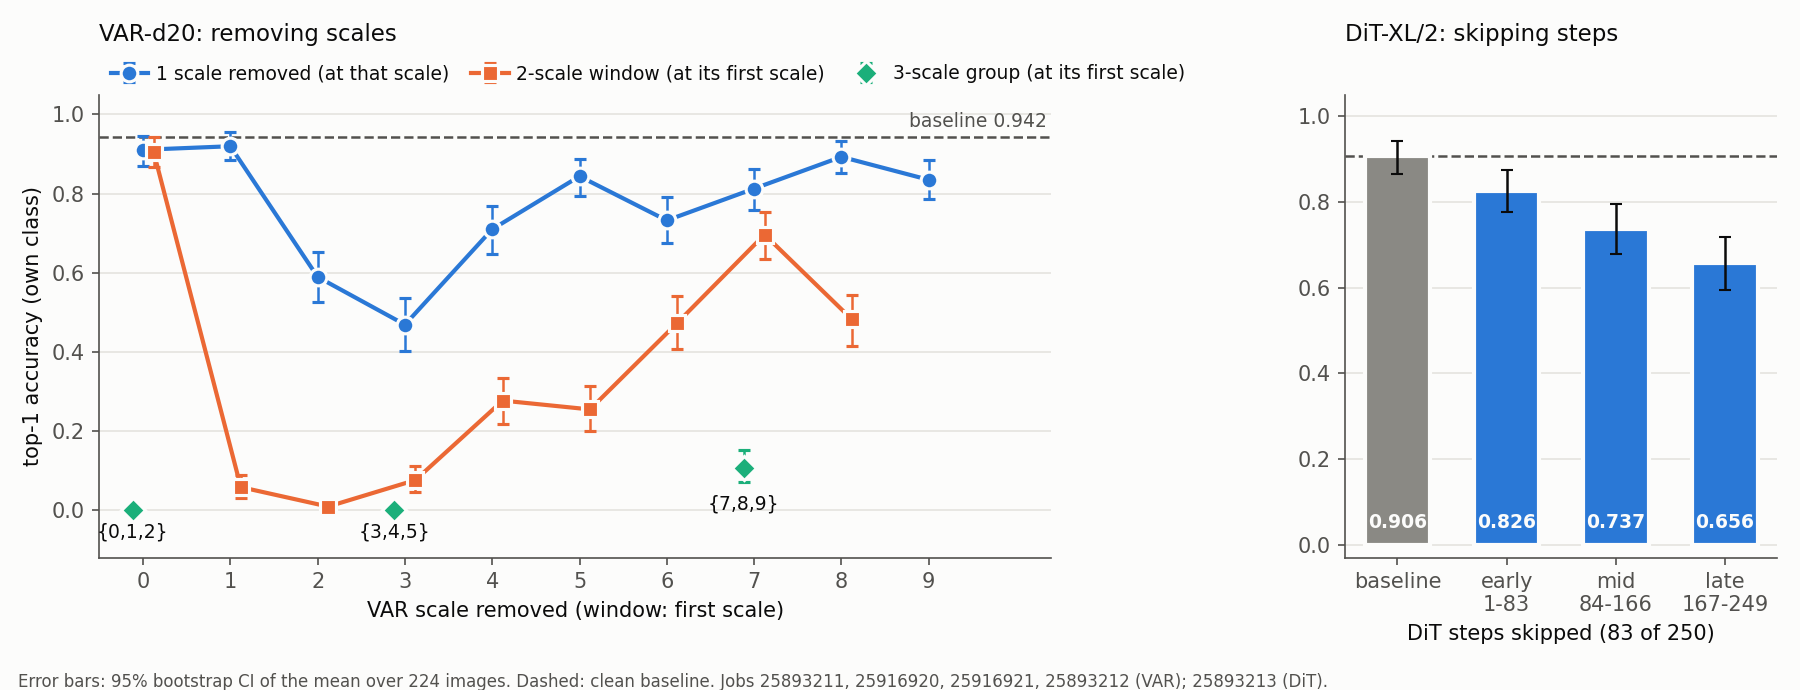
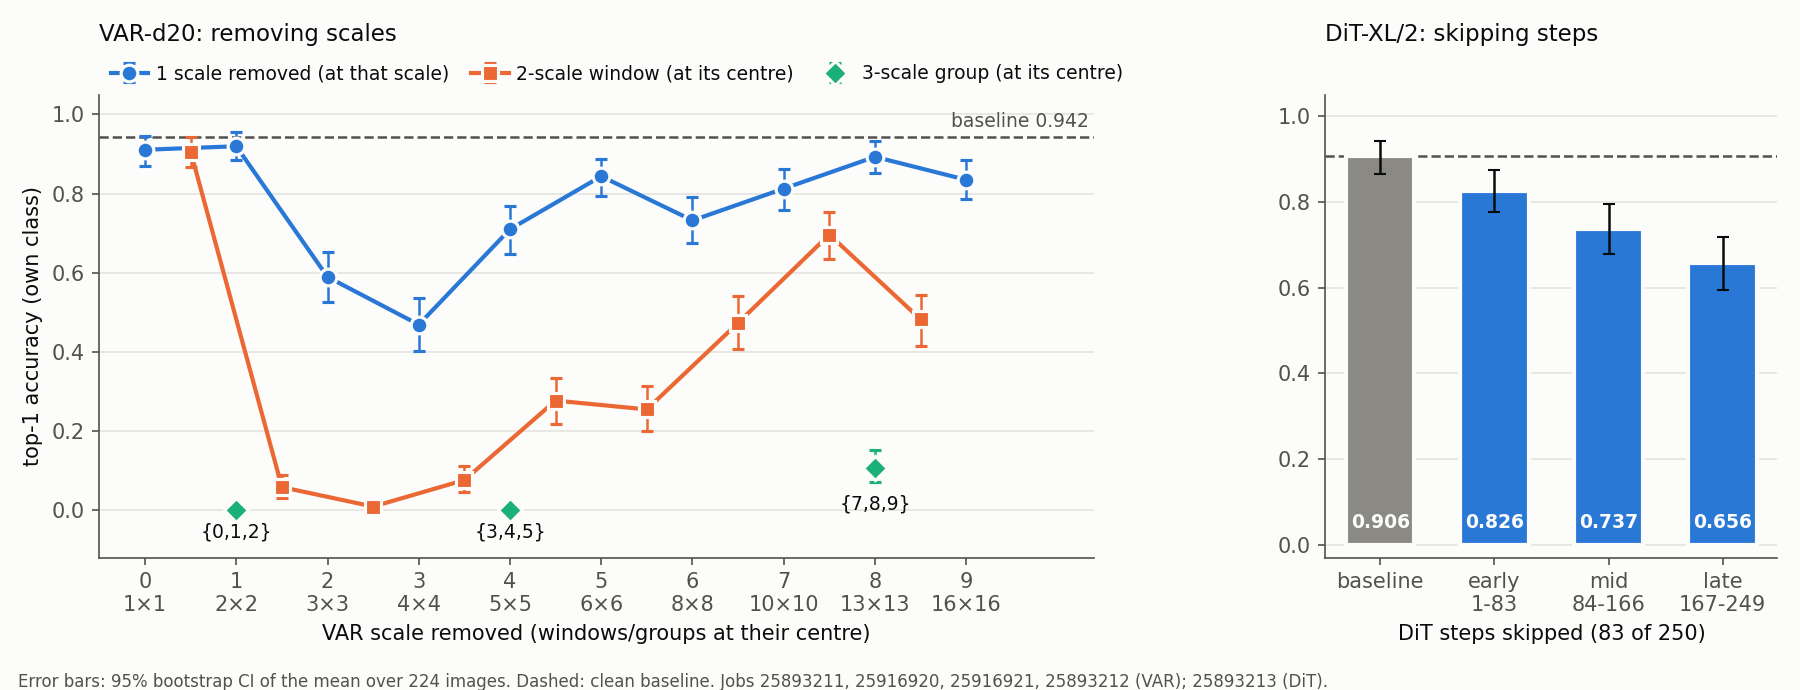
P1: Figure 1 tweaks, failure grid (Fig 1b), ranking

diff --git a/lanes/p1/failure_grid.py b/lanes/p1/failure_grid.py
@@ -1,0 +1,129 @@
+"""Figure 1b: example images per removal arm, VAR and DiT. Needs matplotlib + Pillow; no GPU.
+
+    python -m lanes.p1.failure_grid [--out lanes/p1/results/fig1b_failures.png]
+
+Rows (fixed rule, not picked by eye): the first manifest row of each of the first N_ROWS classes, in
+manifest order (manifest/frozen_v1_1.csv: classes 151, 153, 162, 207).
+Columns: VAR baseline, remove s0, s3, s9, {2,3}, {7,8}; then DiT baseline, early, mid, late (COLUMNS).
+Each header gives the arm and its mean top-1 over all 224 images (lanes/p1/results/results_sweep.csv).
+Images are the PNGs saved in each run directory; any missing image, run or result row is an error.
+"""
+
+import argparse
+import csv
+import json
+import sys
+from pathlib import Path
+
+sys.dont_write_bytecode = True
+
+import matplotlib  # noqa: E402
+
+matplotlib.use("Agg")
+import matplotlib.pyplot as plt  # noqa: E402
+from PIL import Image  # noqa: E402
+
+from lanes.p1.summarize import job_dir  # noqa: E402
+from runner.manifest import load_manifest  # noqa: E402
+
+MANIFEST = Path("manifest/frozen_v1_1.csv")
+RESULTS = Path("lanes/p1/results/results_sweep.csv")
+N_ROWS = 4
+# (block, header, job, run directory under the job, arm name in results_sweep.csv)
+COLUMNS = (
+    ("VAR", "baseline", "25893211", "var/baseline", "baseline"),
+    ("VAR", "remove s0", "25893211", "var/remove_s0", "remove_s0"),
+    ("VAR", "remove s3", "25916920", "var/remove_s3", "remove_s3"),
+    ("VAR", "remove s9", "25893211", "var/remove_s9", "remove_s9"),
+    ("VAR", "remove {2,3}", "25916921", "var/remove_s23", "remove_s23"),
+    ("VAR", "remove {7,8}", "25916921", "var/remove_s78", "remove_s78"),
+    ("DiT", "baseline", "25893213", "dit/baseline", "baseline"),
+    ("DiT", "early 1-83", "25893213", "dit/remove_early", "remove_early"),
+    ("DiT", "mid 84-166", "25893213", "dit/remove_mid", "remove_mid"),
+    ("DiT", "late 167-249", "25893213", "dit/remove_late", "remove_late"),
+)
+SURFACE, INK, INK2 = "#fcfcfb", "#0b0b0b", "#52514e"
+
+
+def chosen_rows() -> list:
+    """The first manifest row of each of the first N_ROWS classes, in manifest order."""
+    rows, seen = [], set()
+    for r in load_manifest(MANIFEST):
+        if r.class_id not in seen:
+            seen.add(r.class_id)
+            rows.append(r)
+    if len(rows) < N_ROWS:
+        raise SystemExit(f"ERROR: {MANIFEST} has only {len(rows)} classes, need {N_ROWS}")
+    return rows[:N_ROWS]
+
+
+def top1_means() -> dict:
+    """{(job, arm): mean top-1} from results_sweep.csv."""
+    if not RESULTS.is_file():
+        raise SystemExit(f"ERROR: {RESULTS} not found: run python -m lanes.p1.summarize first")
+    with RESULTS.open(newline="", encoding="utf-8") as f:
+        return {(r["job"], r["arm"]): float(r["cls_top1"]) for r in csv.DictReader(f)}
+
+
+def main(argv=None):
+    ap = argparse.ArgumentParser(description=__doc__, formatter_class=argparse.RawDescriptionHelpFormatter)
+    ap.add_argument("--out", type=Path, default=Path("lanes/p1/results/fig1b_failures.png"))
+    args = ap.parse_args(argv)
+
+    rows, top1 = chosen_rows(), top1_means()
+    missing, images = [], {}
+    for _, _, job, run, arm in COLUMNS:
+        d = job_dir(job) / run
+        if (job, arm) not in top1:
+            missing.append(f"{RESULTS}: no row for job {job} arm {arm}")
+        if not (d / "run.json").is_file():
+            missing.append(f"{d}/run.json")
+            continue
+        in_run = {(r["class_id"], r["seed"]) for r in json.loads((d / "run.json").read_text())["rows"]}
+        for r in rows:
+            png = d / f"{r.stem}.png"
+            if (r.class_id, r.seed) not in in_run or not png.is_file():
+                missing.append(str(png))
+            else:
+                images[(run, job, r.stem)] = png
+    if missing:
+        raise SystemExit("ERROR: missing inputs:\n  " + "\n  ".join(missing))
+
+    n_var = sum(c[0] == "VAR" for c in COLUMNS)
+    # Square cells of CELL inches, GAP between cells, one SPACER-wide empty column between VAR and DiT.
+    CELL, GAP, SPACER, LEFT, RIGHT, TOP, BOTTOM = 1.5, 0.05, 0.4, 0.75, 0.1, 0.95, 0.35
+    ratios = [1] * n_var + [SPACER / CELL] + [1] * (len(COLUMNS) - n_var)
+    w = LEFT + RIGHT + CELL * sum(ratios) + GAP * (len(ratios) - 1)
+    h = TOP + BOTTOM + CELL * len(rows) + GAP * (len(rows) - 1)
+    fig, axes = plt.subplots(len(rows), len(ratios), figsize=(w, h),
+                             gridspec_kw={"width_ratios": ratios, "wspace": GAP / CELL, "hspace": GAP / CELL})
+    fig.subplots_adjust(left=LEFT / w, right=1 - RIGHT / w, top=1 - TOP / h, bottom=BOTTOM / h)
+    fig.patch.set_facecolor(SURFACE)
+    for i, r in enumerate(rows):
+        for c, ax in enumerate(axes[i]):
+            ax.set_xticks([])
+            ax.set_yticks([])
+            for spine in ax.spines.values():
+                spine.set_visible(False)
+            if c == n_var:
+                ax.axis("off")   # spacer
+                continue
+            block, header, job, run, arm = COLUMNS[c if c < n_var else c - 1]
+            ax.imshow(Image.open(images[(run, job, r.stem)]).convert("RGB"))
+            if i == 0:
+                ax.set_title(f"{header}\ntop-1 {top1[(job, arm)]:.3f}", color=INK, fontsize=9, pad=4)
+            if c == 0:
+                ax.set_ylabel(f"class {r.class_id}\nseed {r.seed}", color=INK2, fontsize=8)
+    for block, col in (("VAR-d20 (scales removed)", 0), ("DiT-XL/2 (steps skipped, 83 of 250)", n_var + 1)):
+        left = axes[0][col].get_position().x0
+        fig.text(left, 1 - 0.15 / h, block, color=INK, fontsize=11, ha="left", va="top")
+    fig.text(0.01, 0.08 / h, f"Rows: first manifest row of each of the first {N_ROWS} classes ({MANIFEST.as_posix()}). "
+             "Headers: mean top-1 over all 224 images. Jobs 25893211, 25916920, 25916921 (VAR); 25893213 (DiT).",
+             color=INK2, fontsize=8)
+    args.out.parent.mkdir(parents=True, exist_ok=True)
+    fig.savefig(args.out, dpi=130, facecolor=SURFACE)
+    print(f"wrote {args.out}  (rows: {', '.join(r.stem for r in rows)})")
+
+
+if __name__ == "__main__":
+    main()

diff --git a/lanes/p1/summarize.py b/lanes/p1/summarize.py
@@ -21,6 +21,11 @@ Per pair (--compare JOB:ARM_A,ARM_B, repeatable; --compare-out): two arms of the
 (class_id, seed) rows. diff_cls_top1, diff_cls_prob = mean over images of ARM_A - ARM_B (positive = A
 scores higher), with the same paired bootstrap 95% CI, and each arm's mean.
 
+Ranking (--ranking-out, with --out): read back from the --out CSV just written, every removal arm per
+model, ordered by drop_cls_top1 (largest first; ties by drop_cls_prob, then job and arm), with what it
+removed (VAR scales, DiT step indices and timesteps; from runs.csv params), how many scales or steps, and
+for VAR the tokens removed (sum of n_tokens over the removed scales, from the run's run.json stages table).
+
 Arms come from JOB/tables/runs.csv (written by `schema collect` at the end of every job). Metrics are
 read from RUN_DIR/metrics.csv, or, when the run directory was not copied, from JOB/tables/metrics.csv
 (the same rows, merged by collect).
@@ -28,6 +33,7 @@ read from RUN_DIR/metrics.csv, or, when the run directory was not copied, from J
 
 import argparse
 import csv
+import json
 import sys
 from pathlib import Path
 
@@ -44,6 +50,8 @@ COLUMNS = ("job", "model", "arm", "n", *MEANS,
            *(f"drop_{m}{s}" for m in DROPS for s in ("", "_lo", "_hi")), "kid_vs_base")
 COMPARE_COLUMNS = ("job", "model", "arm_a", "arm_b", "n",
                    *(c for m in DROPS for c in (f"{m}_a", f"{m}_b", f"diff_{m}", f"diff_{m}_lo", f"diff_{m}_hi")))
+RANKING_COLUMNS = ("model", "rank", "job", "arm", "removed", "n_removed", "unit", "tokens_removed", "cls_top1",
+                   *(f"drop_{m}{s}" for m in DROPS for s in ("", "_lo", "_hi")), "kid_vs_base")
 
 
 def _read_csv(path: Path) -> list[dict]:
@@ -161,6 +169,38 @@ def compare(spec: str) -> dict:
     return row
 
 
+def _removal(job: Path, arm: str) -> dict:
+    """What one arm removed: removed, n_removed, unit, tokens_removed (VAR only)."""
+    runs = {r["arm"]: r for r in _read_csv(job / "tables" / "runs.csv")}
+    if arm not in runs:
+        raise SystemExit(f"ERROR: no arm {arm!r} in {job}/tables/runs.csv")
+    r = runs[arm]
+    p = json.loads(r["params"] or "{}")
+    if "scales" in p:
+        stages = json.loads((job / r["run_dir"] / "run.json").read_text())["stages"]
+        tokens = {s["stage"]: s["n_tokens"] for s in stages}
+        return {"removed": "{" + ",".join(map(str, p["scales"])) + "}", "n_removed": len(p["scales"]),
+                "unit": "scales", "tokens_removed": sum(tokens[s] for s in p["scales"])}
+    if "step_first" in p:
+        return {"removed": f"steps {p['step_first']}-{p['step_last']} (t {p['timestep_first']}-{p['timestep_last']})",
+                "n_removed": p["n_removed"], "unit": "steps", "tokens_removed": ""}
+    raise SystemExit(f"ERROR: {job} arm {arm}: params do not say what was removed: {r['params']}")
+
+
+def ranking(results_csv: Path) -> list[dict]:
+    """Every removal arm of results_csv (an --out CSV), per model, by drop in top-1, largest first."""
+    rows = [r for r in _read_csv(results_csv) if r["drop_cls_top1"] != ""]
+    out = []
+    for model in sorted({r["model"] for r in rows}, key=lambda m: (m != "var", m)):
+        ranked = sorted((r for r in rows if r["model"] == model),
+                        key=lambda r: (-float(r["drop_cls_top1"]), -float(r["drop_cls_prob"]), r["job"], r["arm"]))
+        for i, r in enumerate(ranked, 1):
+            out.append({"model": model, "rank": i, "job": r["job"], "arm": r["arm"],
+                        **_removal(job_dir(r["job"]), r["arm"]), "cls_top1": r["cls_top1"],
+                        **{c: r[c] for c in RANKING_COLUMNS[9:]}})
+    return out
+
+
 def _write(path: Path, columns, rows):
     path.parent.mkdir(parents=True, exist_ok=True)
     with path.open("w", newline="", encoding="utf-8") as f:
@@ -176,9 +216,12 @@ def main(argv=None):
     ap.add_argument("--compare", action="append", default=[], metavar="JOB:ARM_A,ARM_B",
                     help="paired difference ARM_A - ARM_B within one job (repeatable; needs --compare-out)")
     ap.add_argument("--compare-out", type=Path, help="CSV for the --compare rows")
+    ap.add_argument("--ranking-out", type=Path, help="CSV ranking the removal arms of --out (needs --out)")
     args = ap.parse_args(argv)
     if bool(args.jobs) != bool(args.out):
         ap.error("give job directories together with --out")
+    if args.ranking_out and not args.out:
+        ap.error("--ranking-out ranks the --out CSV: give jobs and --out too")
     if bool(args.compare) != bool(args.compare_out):
         ap.error("give --compare together with --compare-out")
     if not args.out and not args.compare:
@@ -187,6 +230,10 @@ def main(argv=None):
         rows = [row for j in args.jobs for row in summarize_job(job_dir(j))]
         _write(args.out, COLUMNS, rows)
         print(f"wrote {len(rows)} arms to {args.out}")
+        if args.ranking_out:
+            ranked = ranking(args.out)
+            _write(args.ranking_out, RANKING_COLUMNS, ranked)
+            print(f"wrote {len(ranked)} ranked removal arms to {args.ranking_out}")
     if args.compare:
         rows = [compare(spec) for spec in args.compare]
         _write(args.compare_out, COMPARE_COLUMNS, rows)

diff --git a/lanes/p1/plot_fig1.py b/lanes/p1/plot_fig1.py
@@ -3,8 +3,9 @@
     python -m lanes.p1.plot_fig1 [--out lanes/p1/results/fig1.png]
 
 Left: VAR top-1 vs position on the scale ladder. Single-scale arms (s0, s9 from 25893211; s1-s8 from
-25916920) at the removed scale; 2-scale windows (25916921) at the window's first scale; the three
-3-scale groups (25893212) as labelled points at the group's first scale.
+25916920) at the removed scale; 2-scale windows (25916921) and the three 3-scale groups (25893212,
+labelled points) at the mean of their removed scales ({0,1} at 0.5, {3,4,5} at 4). Under each scale
+index, its token-grid size (pn x pn, from the baseline run.json stages table).
 Right: DiT baseline / early / mid / late (25893213) as bars.
 Error bars: 95% percentile bootstrap CI of each arm's mean top-1 over its 224 images (10000 resamples,
 seed 0, as lanes/p1/summarize.py). Dashed line: the model's clean baseline.
@@ -94,6 +95,9 @@ def main(argv=None):
     if [a["params"]["scales"][0] for a in single] != list(range(10)):
         raise SystemExit(f"ERROR: single-scale arms are not s0-s9: {[a['arm'] for a in single]}")
     vbase = var_baseline(*SINGLE_JOBS, WINDOW2_JOB, WINDOW3_JOB)
+    stages = json.loads((job_dir(SINGLE_JOBS[0]) / "var" / "baseline" / "run.json").read_text())["stages"]
+    grid = {s["stage"]: s["pn"] for s in stages}
+    centre = lambda a: float(np.mean(a["params"]["scales"]))   # noqa: E731
     dit = {a["arm"]: a for a in arms(DIT_JOB)}
     dit_rows = [dit[k] for k in ("baseline", "remove_early", "remove_mid", "remove_late")]
 
@@ -106,17 +110,16 @@ def main(argv=None):
     ax.text(10.35, vbase["top1"] + 0.015, f"baseline {vbase['top1']:.3f}", color=INK2, ha="right", va="bottom",
             fontsize=9)
     _errbar(ax, [a["params"]["scales"][0] for a in single], single, BLUE, "o", "1 scale removed (at that scale)")
-    _errbar(ax, [a["params"]["scales"][0] + 0.12 for a in window2], window2, ORANGE, "s",
-            "2-scale window (at its first scale)")
-    _errbar(ax, [a["params"]["scales"][0] - 0.12 for a in window3], window3, AQUA, "D",
-            "3-scale group (at its first scale)", linestyle="none")
+    _errbar(ax, [centre(a) for a in window2], window2, ORANGE, "s", "2-scale window (at its centre)")
+    _errbar(ax, [centre(a) for a in window3], window3, AQUA, "D", "3-scale group (at its centre)",
+            linestyle="none")
     for a in window3:
         s = a["params"]["scales"]
-        ax.annotate("{" + ",".join(map(str, s)) + "}", (s[0] - 0.12, a["lo"]), textcoords="offset points",
+        ax.annotate("{" + ",".join(map(str, s)) + "}", (centre(a), a["lo"]), textcoords="offset points",
                     xytext=(0, -6), ha="center", va="top", color=INK, fontsize=9)
-    ax.set_xticks(range(10))
+    ax.set_xticks(range(10), [f"{i}\n{grid[i]}×{grid[i]}" for i in range(10)])
     ax.set_xlim(-0.5, 10.4)
-    ax.set_xlabel("VAR scale removed (window: first scale)", color=INK)
+    ax.set_xlabel("VAR scale removed (windows/groups at their centre)", color=INK)
     ax.set_ylabel("top-1 accuracy (own class)", color=INK)
     ax.set_title("VAR-d20: removing scales", color=INK, loc="left", fontsize=11, pad=26)
     ax.legend(loc="lower left", bbox_to_anchor=(0, 1.0), ncol=3, frameon=False, fontsize=9, labelcolor=INK,

diff --git a/lanes/p1/README.md b/lanes/p1/README.md
@@ -13,9 +13,10 @@ P2's schema (`lanes/p2/schema.py`, `--lane p1`).
 | `jobs/sanity_var.env` | Positive control for the VAR hook: scale 9 alone, scale 0 alone |
 | `jobs/single_var.env` | Single-scale sweep: each of VAR scales 1-8 alone |
 | `jobs/window2_var.env`, `jobs/window3_var.env` | Sliding windows of 2 and 3 neighbouring VAR scales |
-| `summarize.py` | One row per arm: means, paired drops vs baseline with bootstrap CIs, KID; `--compare` for arm vs arm |
+| `summarize.py` | One row per arm: means, paired drops vs baseline with bootstrap CIs, KID; `--compare` for arm vs arm; `--ranking-out` for the ranking |
 | `plot_fig1.py` | Figure 1: VAR top-1 by removed scale / window, DiT top-1 per arm, with CIs |
-| `results/` | `summarize.py` outputs and Figure 1, quoted in this README |
+| `failure_grid.py` | Figure 1b: four fixed example images under each VAR and DiT arm |
+| `results/` | `results_sweep.csv`, `ranking.csv`, `compare_dit.csv`, `fig1.png`, `fig1b_failures.png` (all quoted below) |
 
 ## What "removal" means
 
@@ -114,12 +115,23 @@ run span top-1 0.000-0.107, so further 3-scale windows are unlikely to separate 
 ![Figure 1](results/fig1.png)
 
 Figure 1 (`results/fig1.png`, from `python -m lanes.p1.plot_fig1`; needs matplotlib). Left: VAR top-1
-vs the removed scale (single scales), vs the window's first scale (2-scale windows), and the three
-3-scale groups as labelled points. Right: DiT top-1 per arm. Error bars: 95% bootstrap CI of each arm's
-mean over its 224 images (not the paired CI of the drop in the table). Dashed line: clean baseline.
+vs the removed scale (single scales), with 2-scale windows and the three labelled 3-scale groups at the
+mean of their removed scales; each scale index shows its token-grid size. Right: DiT top-1 per arm.
+Error bars: 95% bootstrap CI of each arm's mean over its 224 images (not the paired CI of the drop in
+the table). Dashed line: clean baseline.
 
-Table from `lanes/p1/results/results_sweep.csv`, written by
-`python -m lanes.p1.summarize 25893211 25893212 25893213 25916920 25916921 --out lanes/p1/results/results_sweep.csv`.
+![Figure 1b](results/fig1b_failures.png)
+
+Figure 1b (`results/fig1b_failures.png`, from `python -m lanes.p1.failure_grid`; needs matplotlib +
+Pillow): the same four images (first manifest row of each of the first four classes) under each VAR
+and DiT arm, headed by the arm's mean top-1 over all 224 images.
+
+Table from `lanes/p1/results/results_sweep.csv`; `lanes/p1/results/ranking.csv` from the same command:
+`python -m lanes.p1.summarize 25893211 25893212 25893213 25916920 25916921 --out lanes/p1/results/results_sweep.csv --ranking-out lanes/p1/results/ranking.csv`.
+
+`results/ranking.csv`: every removal arm per model, ordered by top-1 drop (largest first), with what it
+removed, how many scales or steps, the VAR tokens removed, and the drop CIs and KID from this table.
+Ties are broken by cls_prob drop, then job and arm: VAR {0,1,2} and {3,4,5} tie on both (0.942 / 0.811).
 Means are over the 224 images. Drops are baseline - arm (positive = worse), with 95% paired-bootstrap
 CIs over images (10000 resamples, seed 0). `img_mad255` is the distance from the baseline image
 (0..255). KID is paired, against the job's own baseline.
